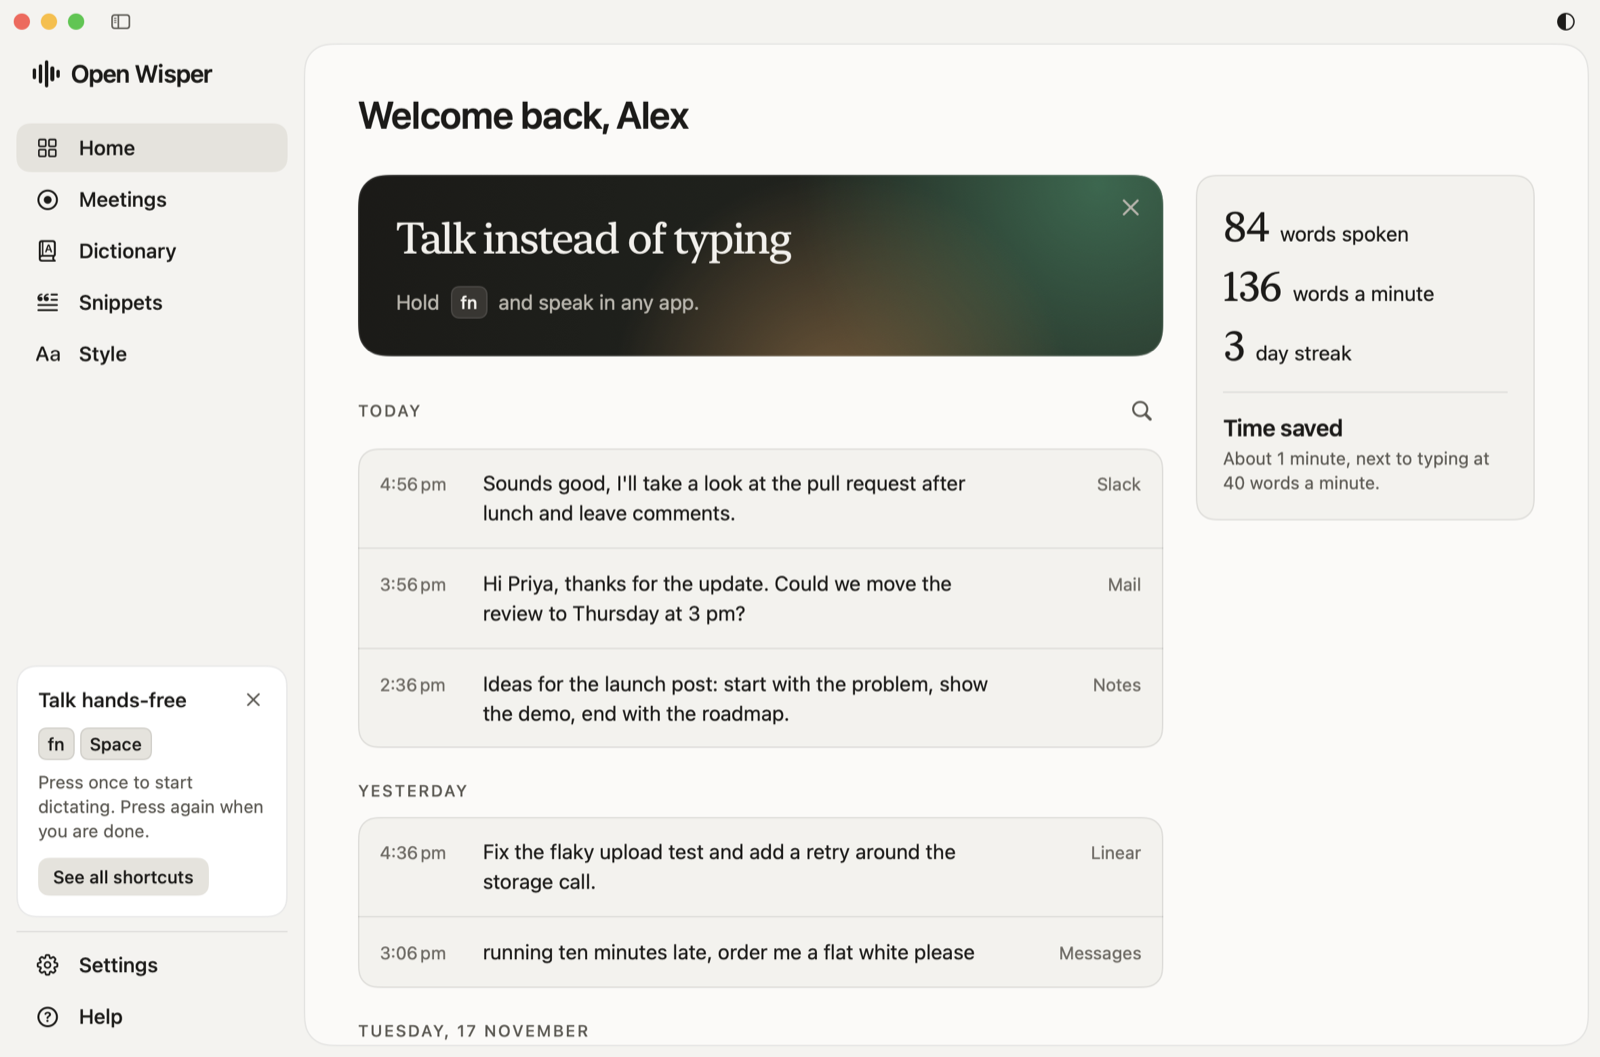
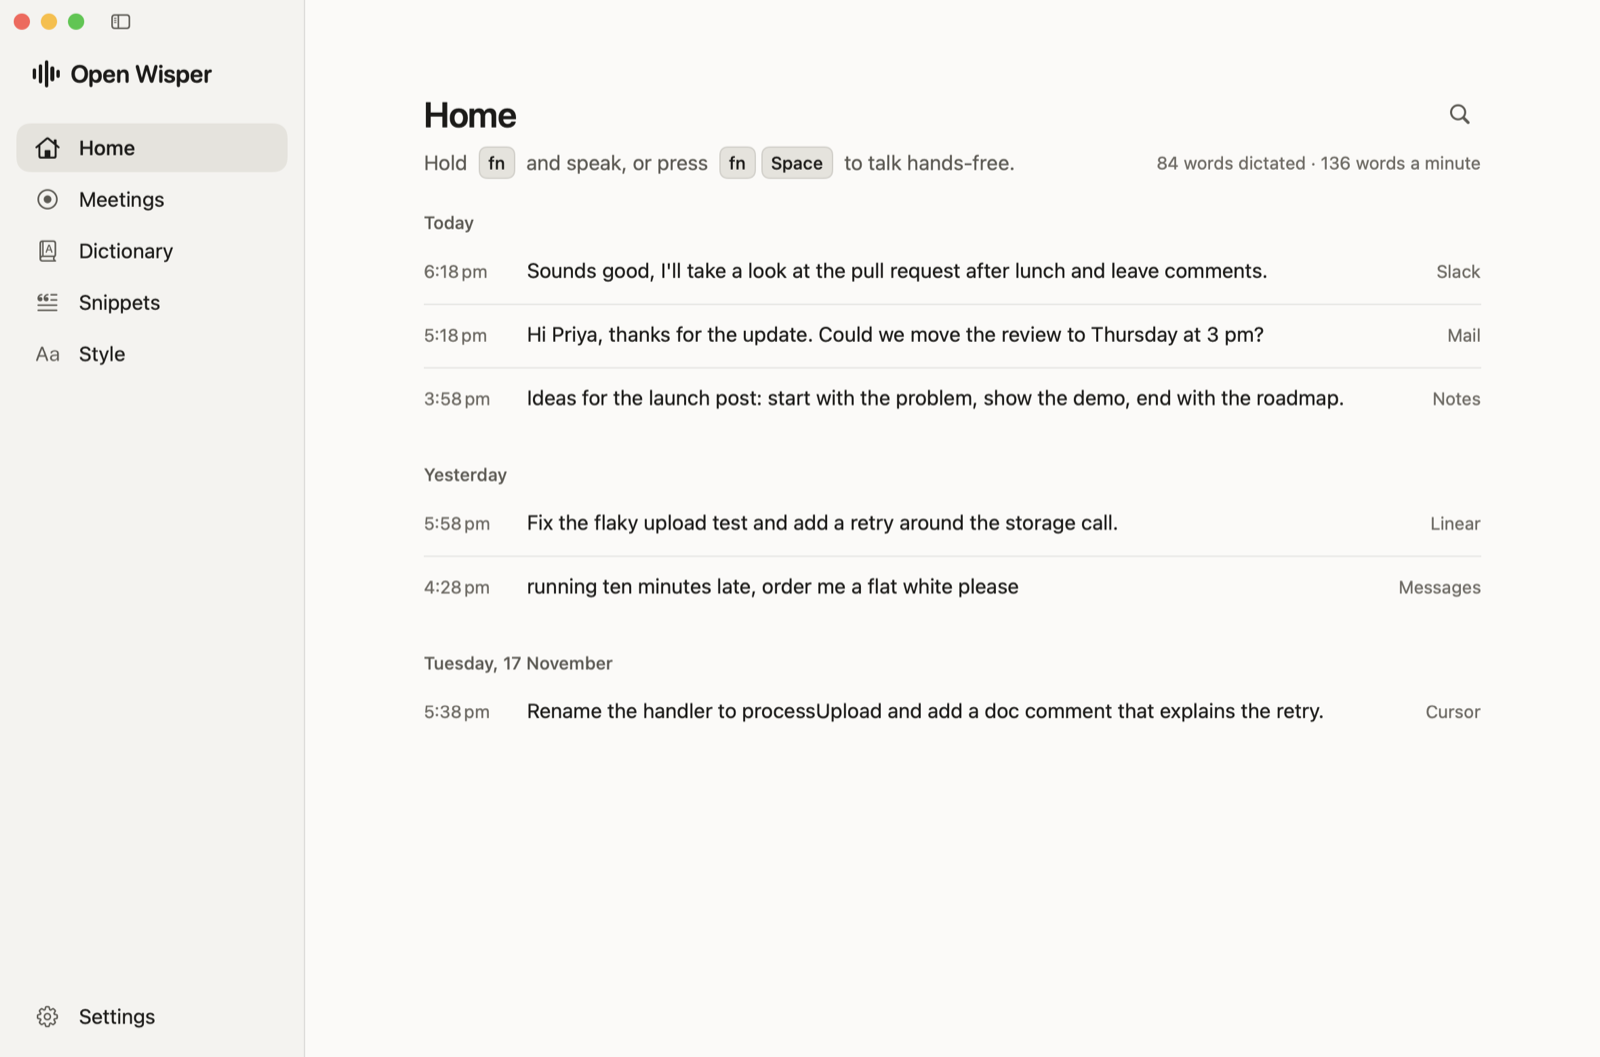
Update the README pictures and contributor rules

diff --git a/AGENTS.md b/AGENTS.md
@@ -4,10 +4,10 @@ Open Wisper is an open-source voice dictation and meeting-notes app for macOS an
 
 ## Rules that never bend
 
-- **Everything is stored on the device.** Files under the data folder, the API key in the Keychain. No cloud, no analytics, no telemetry, no sign-up. The only network calls go to the OpenAI-compatible server the user configured.
+- **Everything is stored on the device.** Files under the data folder, the API key in the Keychain. No cloud, no analytics, no telemetry, no sign-up. The only network calls go to the OpenAI-compatible server the user configured, plus the Mac app's check for a new version on GitHub (about once a day; it sends no user data).
 - **One branch, one environment.** `main` is the base branch. There is no staging or dev environment. Work on a branch, open a PR into `main`.
 - **Original work only.** The layout and flows are inspired by popular dictation apps, but never copy another product's code, images, icons, sounds, name or wording.
-- **No third-party Swift dependencies** without a strong reason. Apple frameworks and the standard library cover what we need.
+- **No third-party Swift dependencies** without a strong reason. Apple frameworks and the standard library cover what we need. The one exception is Sparkle, the updater in the Mac app, imported in a single file (`AppUpdater.swift`).
 - The API key never goes into a file, a log, an error message or a test.
 
 ## Layout
@@ -38,6 +38,7 @@ Dependencies point one way: `domain` knows nothing; `store`, `ai`, `audio`, `eng
 - **Links.** A link that starts listening or stops a recording (`WisperLink.needsTrust`) is followed only with a redeemed `LinkTicket` or the user's yes. A sender of ours (the `wisper` tool, the iOS keyboard) attaches one with `LinkTicket.issue`. Without a ticket: starting a meeting asks first, dictation and stop links are ignored.
 - **Nothing said is lost.** A failed dictation keeps its audio and a history entry to retry. A meeting's audio stays on disk until all of it is transcribed, and `recoverUnfinished` rebuilds from it after a crash.
 - **Agent export.** `meetings export` writes only a new `.md` file. Keep the rules in `docs/agents.md` ("Safety") true.
+- **Updates.** The Mac app updates itself through Sparkle from GitHub Releases. Every release is signed with the same certificate and update key (`scripts/setup-signing`), so permissions survive an update and a tampered download is refused. A release is a `vX.Y.Z` tag that matches `apps/macos/package.json`; see CONTRIBUTING.md.
 - **Docs follow the code.** A change to a stored model updates `docs/data-format.md`. A change to a `wisper` tool updates the tables in `docs/agents.md`: paste the output of `wisper tools --markdown` between the markers (a test compares them).
 
 ## Design: deep modules
